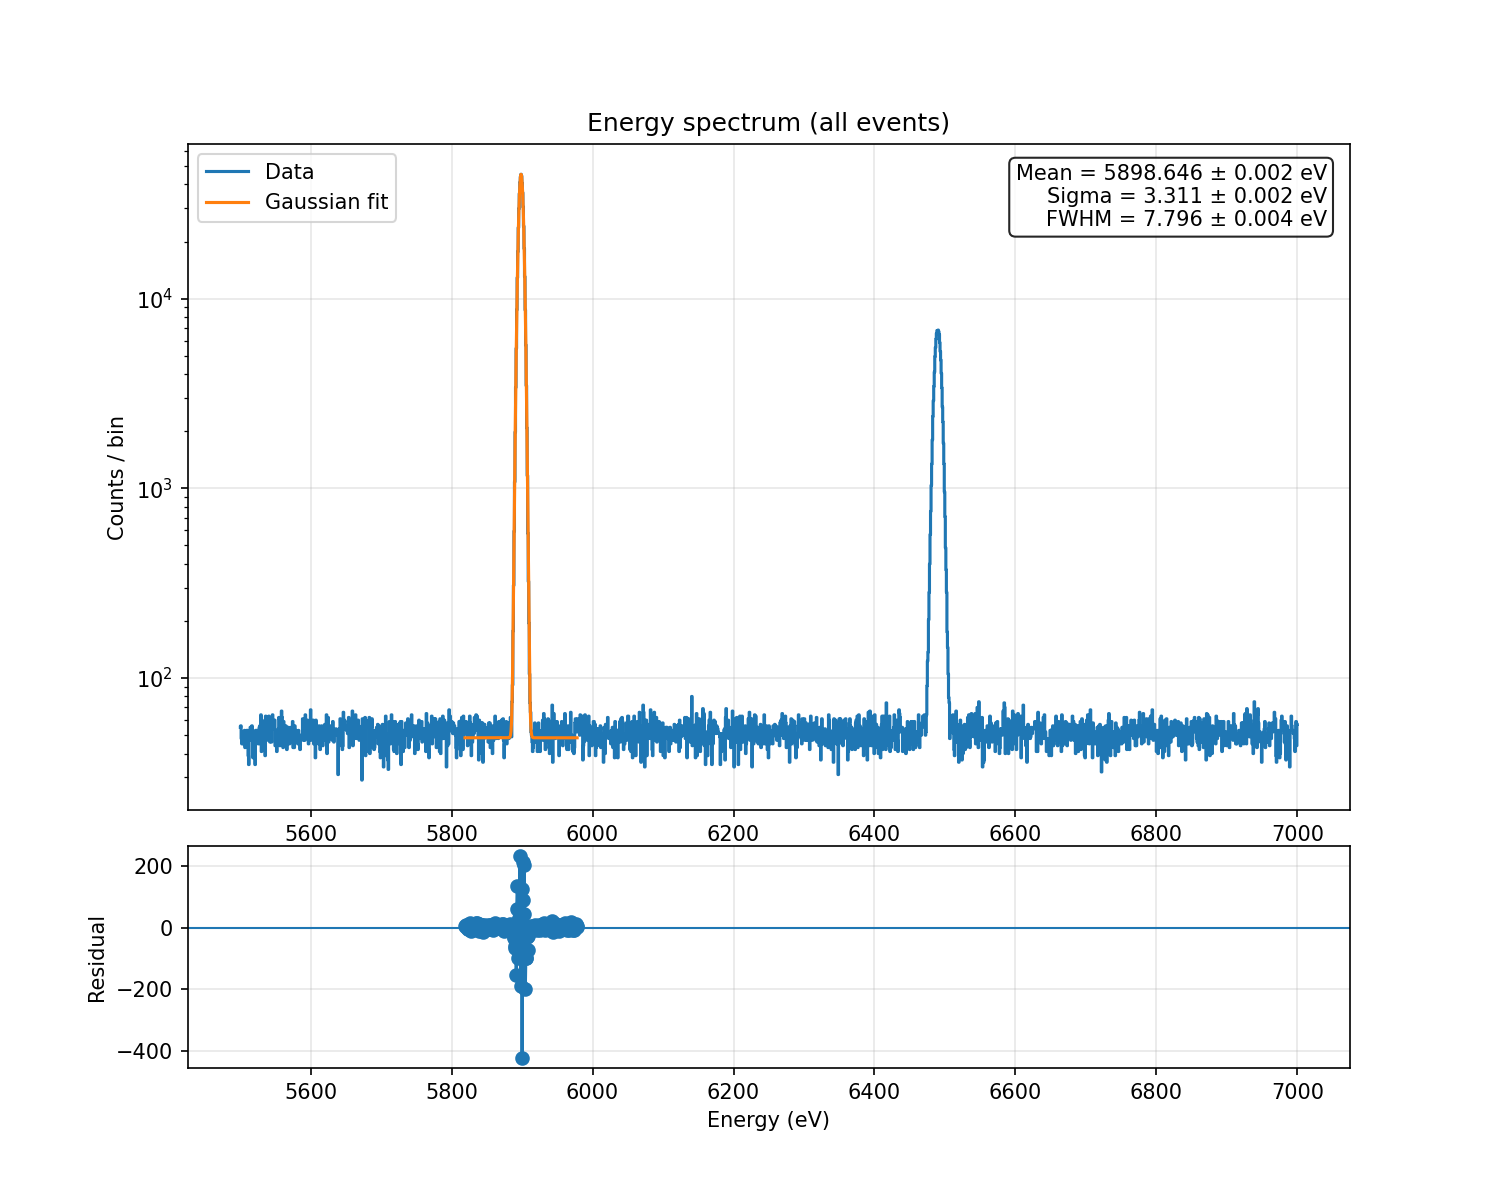
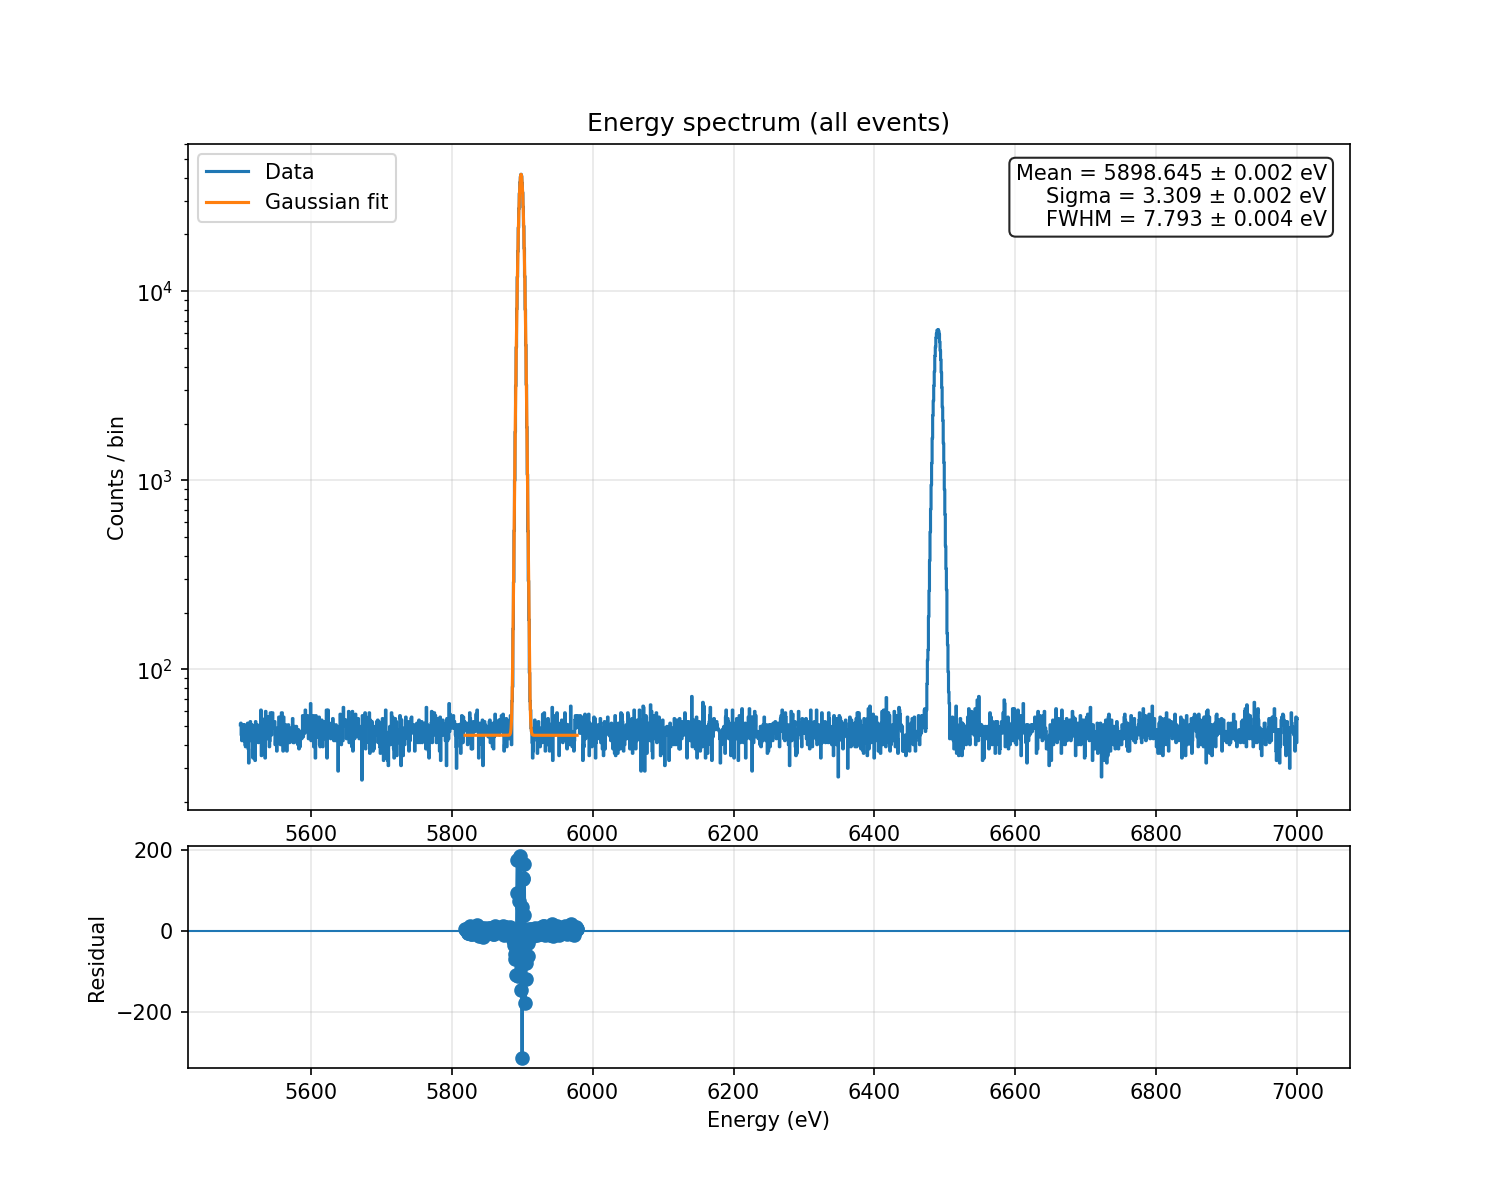
root

diff --git a/heates107/scripts/heates_scan_hdf5_to_root.py b/heates107/scripts/heates_scan_hdf5_to_root.py
@@ -46,13 +46,12 @@ except ImportError:
     Optional = object
     List = list
 
-
 # ----------------------------------------------------------------------
 # Configuration
 # ----------------------------------------------------------------------
 ROOT_ENV_NAME = "root_env"
 ROOT_ENV_PYTHON = "/home/heates107/miniforge3/envs/root_env/bin/python"
-DEFAULT_SEARCH_GLOB = "/home/heates107/output/umux/202603*_run*/202603*_run*_mass.hdf5"
+DEFAULT_SEARCH_GLOB = "/home/heates107/output/umux/202603*_run*/202603*_run*_mass*.hdf5"
 ROOT_OUTPUT_DIR = "/home/heates107/output/umux/root"
 
 # These modules are imported only after relaunching inside root_env.